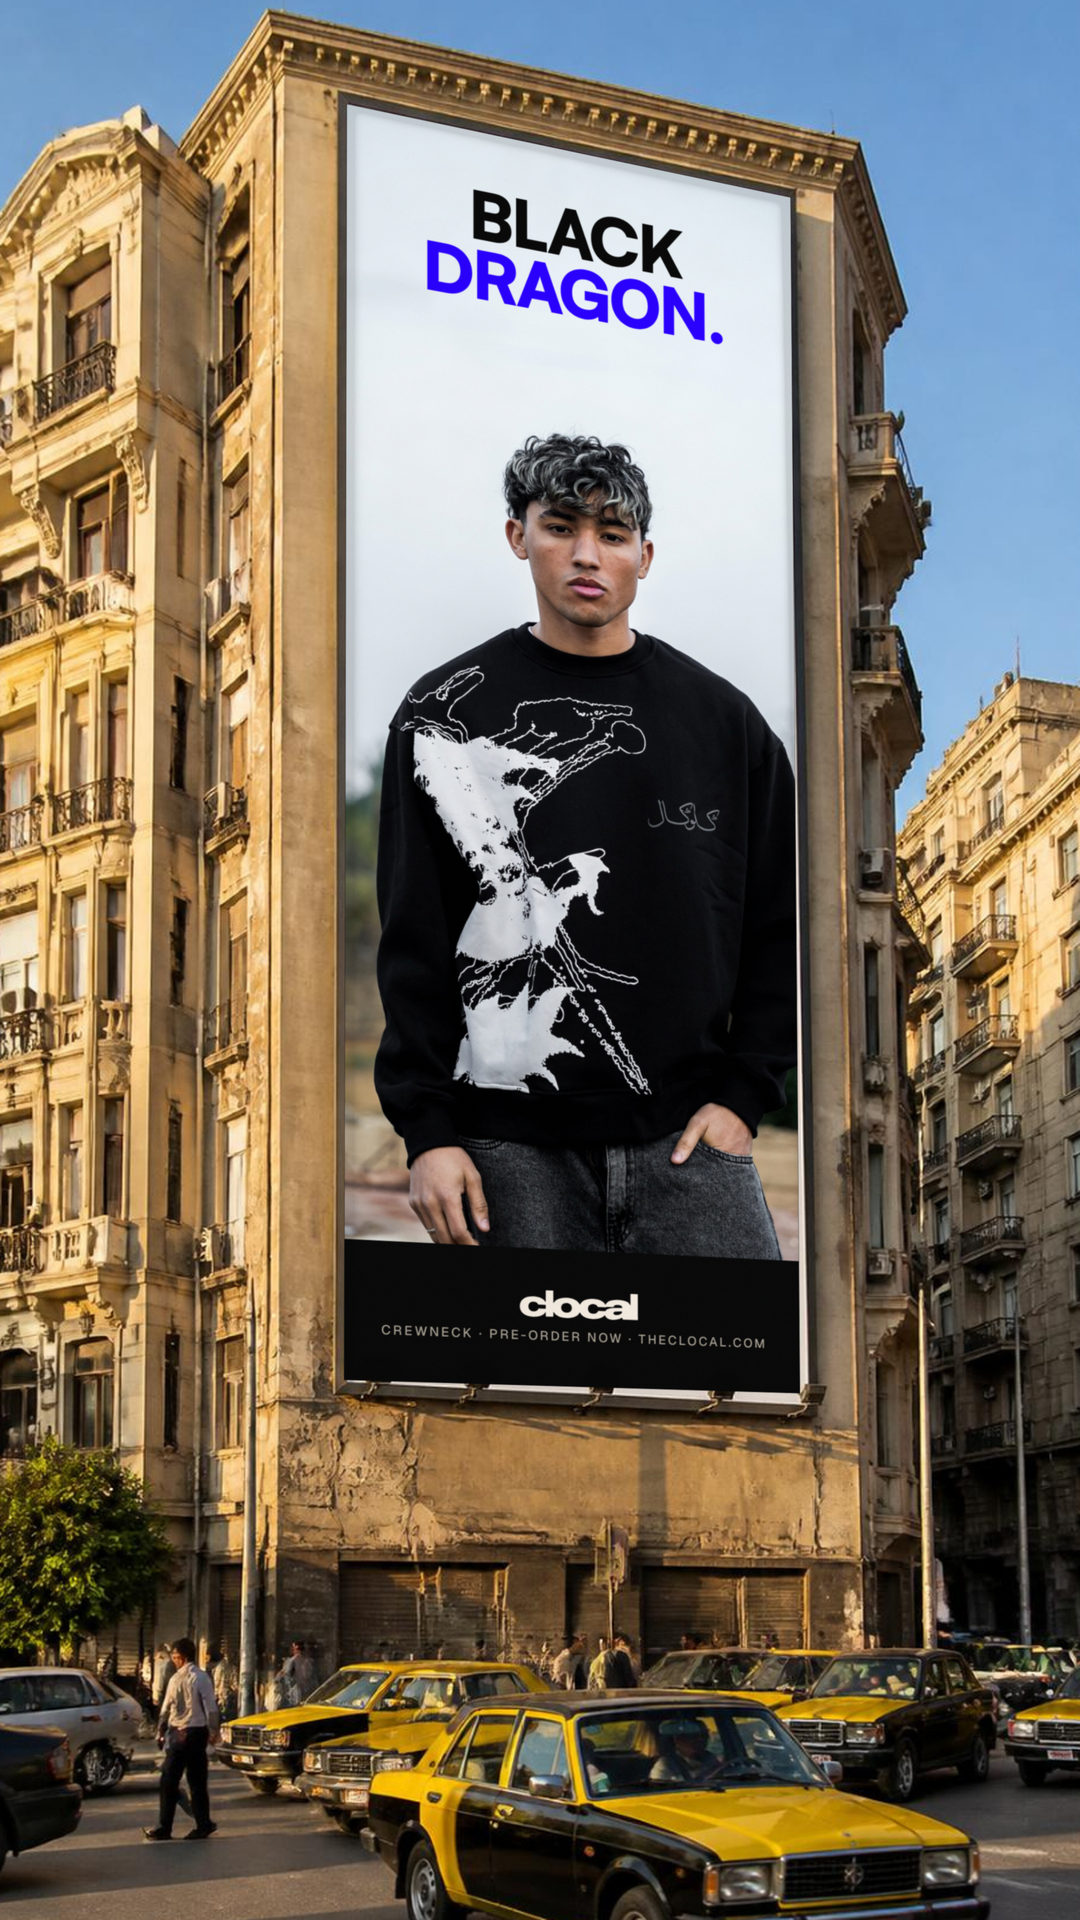
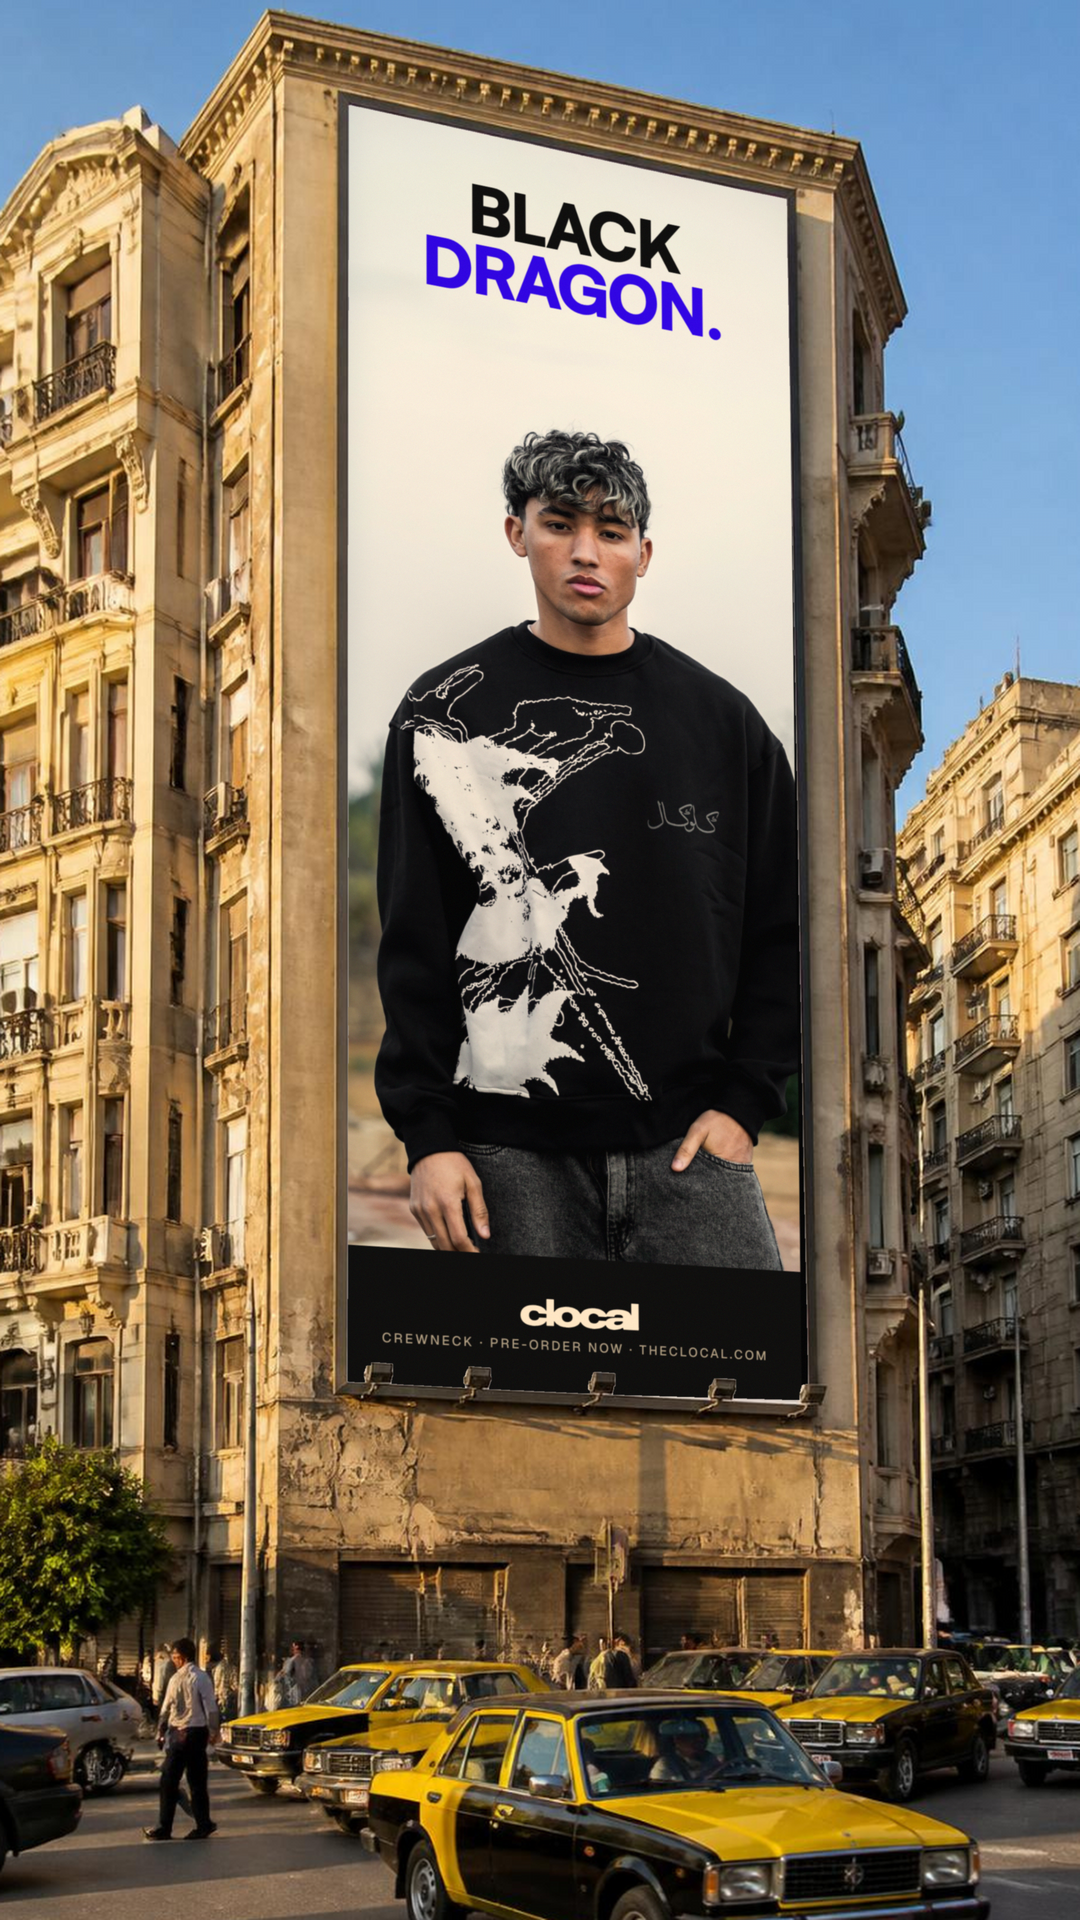
Refine downtown wall billboard composite: exact panel fit, lamps in front, warm relight
Claude-Session: https://claude.ai/code/session_0134z9woteaCD6XRmPMXin1q

Changed region(s): [[0.3056, 0.0312, 0.7639, 0.75], [0.6111, 0.4062, 0.6722, 0.4375]]

diff --git a/clocal-black-dragon-ads/billboard/compose_wall.py b/clocal-black-dragon-ads/billboard/compose_wall.py
@@ -1,0 +1,40 @@
+"""Downtown-wall billboard: fit the face to the blank panel's exact pixels, keep the frame and
+lamps in front, and relight the face with the blank panel's own light (warm afternoon sun)."""
+import numpy as np, cv2
+from PIL import Image
+OW, OH = 1080, 1920
+src = np.asarray(Image.open('billboard/bg_wall.png').convert('RGB')).astype(np.float32)   # 810x1440
+S = OW * 2 / src.shape[1]
+bg = cv2.resize(src, (OW * 2, OH * 2), interpolation=cv2.INTER_LANCZOS4)
+# blank panel = bright, low-chroma pixels inside the rough quad
+rough = (np.float32([[255, 72], [598, 142], [606, 1050], [252, 1040]]) * S).astype(np.int32)
+roi = np.zeros(bg.shape[:2], np.uint8); cv2.fillPoly(roi, [rough], 1)
+L = bg.mean(2); ch = bg.max(2) - bg.min(2)
+blank = ((L > 150) & (ch < 40) & (roi > 0)).astype(np.uint8)
+blank = cv2.morphologyEx(blank, cv2.MORPH_CLOSE, np.ones((9, 9), np.uint8))
+blank = cv2.morphologyEx(blank, cv2.MORPH_OPEN, np.ones((5, 5), np.uint8))
+n, lab, st, _ = cv2.connectedComponentsWithStats(blank)
+blank = (lab == 1 + np.argmax(st[1:, 4])).astype(np.uint8)
+ff = blank.copy(); cv2.floodFill(ff, np.zeros((ff.shape[0] + 2, ff.shape[1] + 2), np.uint8), (0, 0), 1); blank |= (1 - ff)
+# quad from the panel's extreme corners
+ys, xs = np.nonzero(blank); P = np.stack([xs, ys], 1).astype(np.float32)
+quad = np.float32([P[np.argmin(P[:, 0] + P[:, 1])], P[np.argmax(P[:, 0] - P[:, 1])],
+                   P[np.argmax(P[:, 0] + P[:, 1])], P[np.argmin(P[:, 0] - P[:, 1])]])
+c = quad.mean(0); quad = c + (quad - c) * 1.012          # overscan a touch so edges are covered
+face = np.asarray(Image.open('exports/billboard-face-model-tall.png').convert('RGB')).astype(np.float32)
+h, w = face.shape[:2]
+M = cv2.getPerspectiveTransform(np.float32([[0, 0], [w, 0], [w, h], [0, h]]), quad)
+warped = cv2.warpPerspective(face, M, (bg.shape[1], bg.shape[0]), flags=cv2.INTER_AREA)
+warped = cv2.GaussianBlur(warped, (0, 0), 0.9)
+# relight with the blank's own illumination (normalised), incl. its warm colour cast
+light = cv2.GaussianBlur(bg * blank[..., None], (0, 0), 25) / (cv2.GaussianBlur(blank.astype(np.float32), (0, 0), 25)[..., None] + 1e-4)
+ref = np.percentile(light[blank > 0].mean(1), 95)
+light = np.clip(light / ref, 0.55, 1.08)
+tint = np.array([1.03, 1.0, 0.93], np.float32)            # golden-hour warmth
+lit = warped * light * tint * 0.97 + 6
+a = cv2.GaussianBlur(blank.astype(np.float32), (0, 0), 0.8)[..., None]
+out = bg * (1 - a) + lit * a
+out += np.random.default_rng(5).normal(0, 2.2, out.shape).astype(np.float32) * a
+img = Image.fromarray(out.clip(0, 255).astype(np.uint8))
+img.save('exports@2x/billboard-wall-model_9x16.png'); img.resize((OW, OH), Image.LANCZOS).save('exports/billboard-wall-model_9x16.png')
+print('quad', (quad / S).round(1).tolist())
